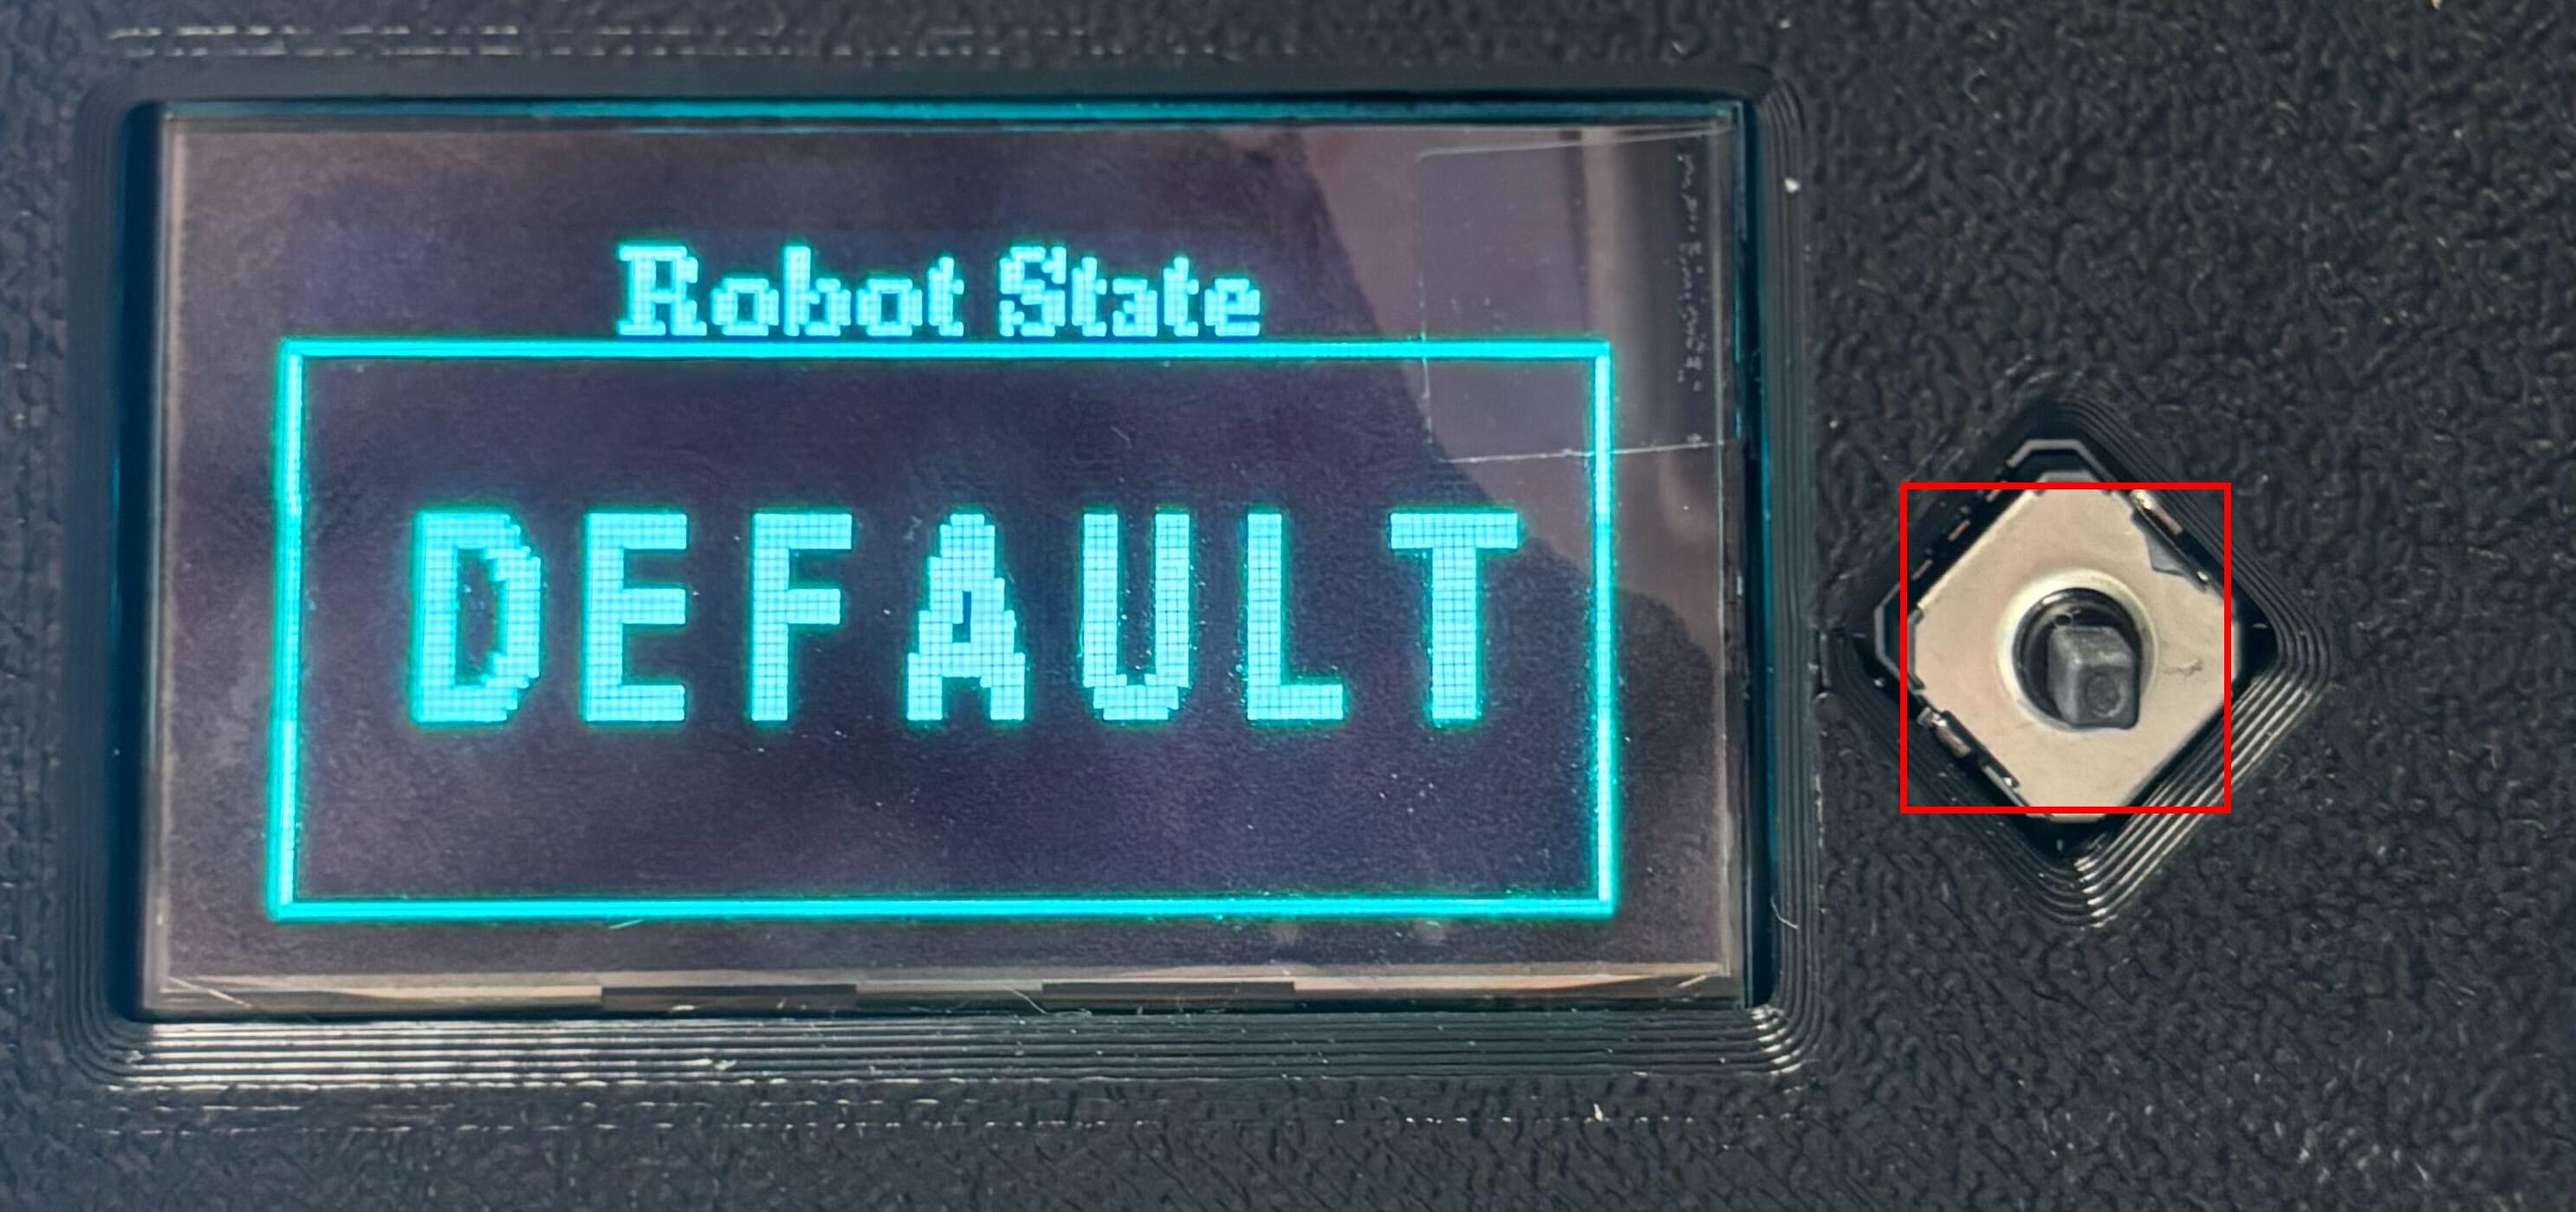
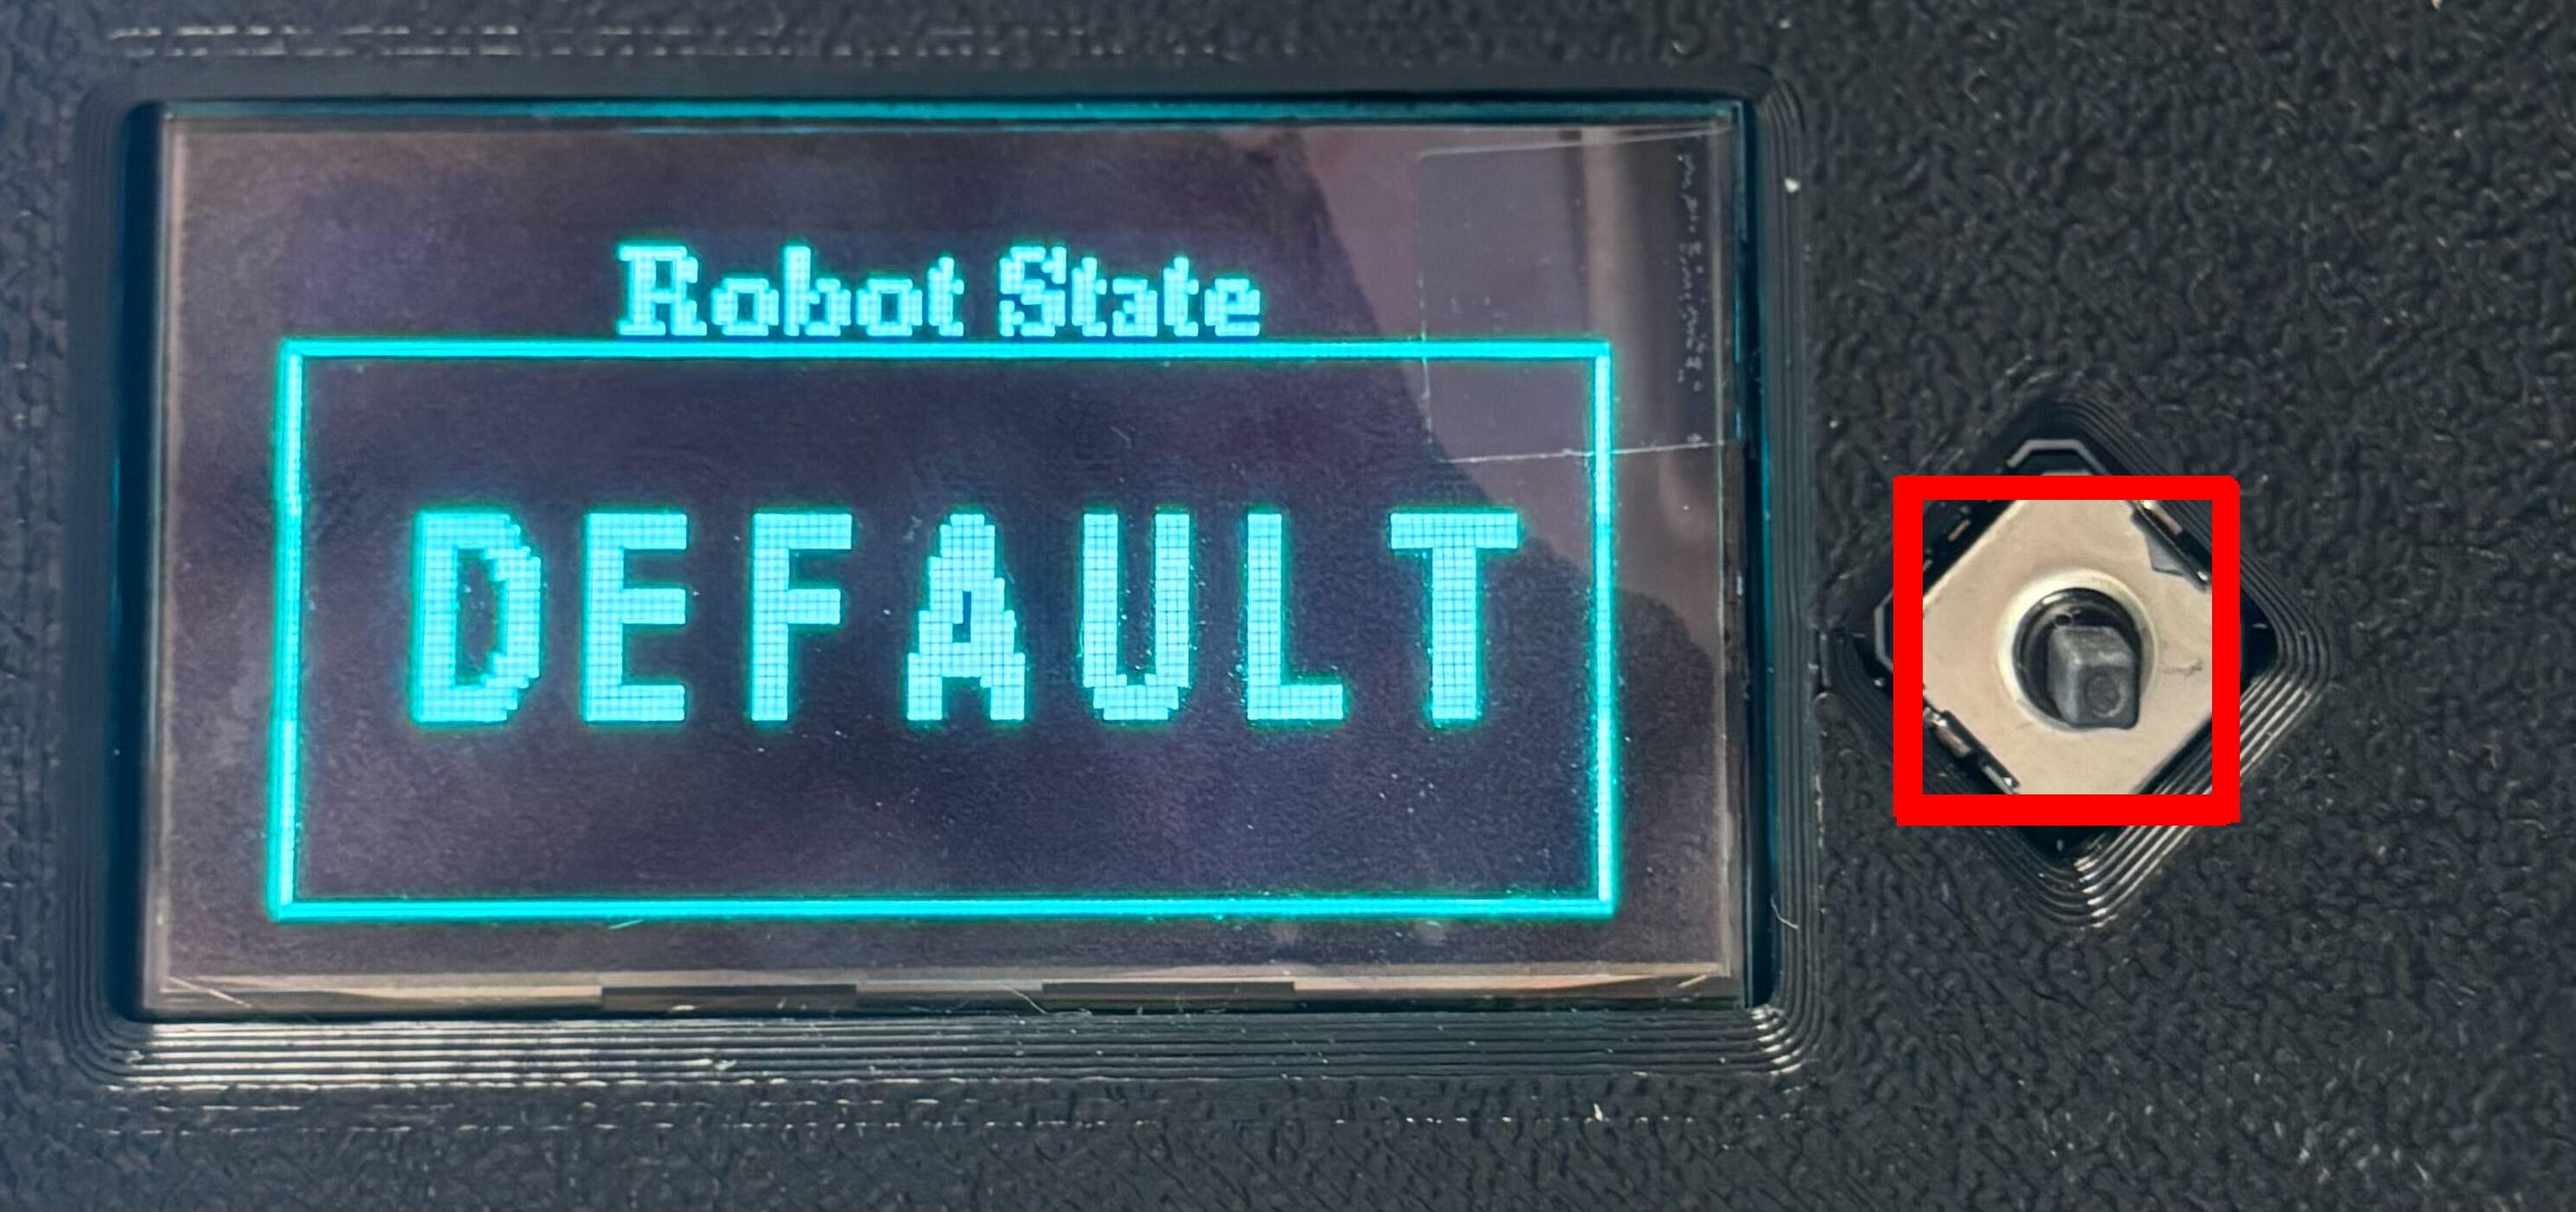
package maintainer지정 및 기타 수정

Changed region(s): [[0.7117, 0.3688, 0.8974, 0.7069]]

diff --git a/wego_minipi_ws/src/web_gui_pkg/src/web_gui_pkg/page_startup.py b/wego_minipi_ws/src/web_gui_pkg/src/web_gui_pkg/page_startup.py
@@ -21,8 +21,6 @@ def startup_page():
     os.makedirs(DEFAULT_DIR, exist_ok=True)
     os.makedirs(ADDITIONAL_DIR, exist_ok=True)
 
-    AUTOSTART_DIR = os.path.join(HOME_DIR, ".config", "autostart")
-    MY_DESKTOP_FILE = os.path.join(AUTOSTART_DIR, "wego_gui_user_startup.desktop")
     WRAPPER_SCRIPT = os.path.join(STARTUP_ROOT, "launcher_wrapper.sh")
 
     checkboxes = {}
@@ -204,7 +202,6 @@ def startup_page():
 
         if is_on:  # ON
             try:
-                os.makedirs(AUTOSTART_DIR, exist_ok=True)
                 with open(WRAPPER_SCRIPT, "w") as f:
                     f.write("#!/bin/bash\n")
                     f.write(f"{ROS_SETUP_COMMAND}\n\n")
@@ -226,30 +223,11 @@ def startup_page():
                 st = os.stat(WRAPPER_SCRIPT)
                 os.chmod(WRAPPER_SCRIPT, st.st_mode | stat.S_IEXEC)
 
-                term_cmd = ""
-                if shutil.which("gnome-terminal"):
-                    term_cmd = f"gnome-terminal --window --title='User Scripts Launcher' -- bash -c '{WRAPPER_SCRIPT}; exec bash'"
-                elif shutil.which("xfce4-terminal"):
-                    term_cmd = f"xfce4-terminal --title='User Scripts Launcher' --hold --command='bash -c {WRAPPER_SCRIPT}'"
-                else:
-                    term_cmd = f"x-terminal-emulator -e 'bash -c \"{WRAPPER_SCRIPT}; read\"'"
-
-                with open(MY_DESKTOP_FILE, "w") as f:
-                    f.write("[Desktop Entry]\n")
-                    f.write("Type=Application\n")
-                    f.write("Name=Wego GUI User Startup\n")
-                    f.write(f"Exec={term_cmd}\n")
-                    f.write("Hidden=false\n")
-                    f.write("NoDisplay=false\n")
-                    f.write("X-GNOME-Autostart-enabled=true\n")
-
                 ui.notify(f"자동 실행 등록됨! (부팅 50초 후 실행)", type="positive")
             except Exception as err:
                 ui.notify(f"설정 실패: {err}", type="negative")
                 e.source.set_value(False)
         else:  # OFF
-            if os.path.exists(MY_DESKTOP_FILE):
-                os.remove(MY_DESKTOP_FILE)
             if os.path.exists(WRAPPER_SCRIPT):
                 os.remove(WRAPPER_SCRIPT)
             ui.notify("사용자 스크립트 자동 실행: 꺼짐", type="warning")
@@ -318,7 +296,7 @@ def startup_page():
                 ui.chip("Always ON", color="gray", icon="lock").props("dense")
 
             with ui.row().classes("w-full items-center justify-between px-4 py-3 bg-indigo-50 rounded mt-2"):
-                is_global_on = os.path.exists(MY_DESKTOP_FILE)
+                is_global_on = os.path.exists(WRAPPER_SCRIPT)
                 with ui.column().classes("gap-0"):
                     ui.label("2. User Scripts (Additional)").classes("font-bold text-indigo-700")
                     ui.label("활성화 시, 부팅 직후 터미널이 열리고 50초 카운트다운 후 실행됩니다.").classes("text-xs text-indigo-500")

diff --git a/wego_minipi_ws/src/ball_tracker_pkg/scripts/cam_setting.py b/wego_minipi_ws/src/ball_tracker_pkg/scripts/cam_setting.py
@@ -54,7 +54,7 @@ PROP = {
     "AUTO_WB": getattr(CAP, "CAP_PROP_AUTO_WB", 45),  # white_balance_temperature_auto
 }
 
-# ⚠ 파싱 결과가 없을 경우를 대비한 폴백(Fallback) 초기값 및 영역
+# 파싱 결과가 없을 경우를 대비한 폴백(Fallback) 초기값 및 영역
 FALLBACK_RANGES = {
     "BRIGHTNESS": (-64, 64),
     "CONTRAST": (0, 64),
@@ -78,8 +78,6 @@ FALLBACK_DEFAULTS = {
 
 RES_LIST = [(640, 480), (800, 600), (1280, 720), (1280, 960), (1920, 1080), (2560, 1440), (3840, 2160)]
 FPS_LIST = [15, 30, 60, 120]
-
-# --- 유틸리티 함수 (중략) ---
 
 
 def bgr_to_qimage(frame):

diff --git a/README.md b/README.md
@@ -1,12 +1,12 @@
 # Mini Pi manual
 
-### 처음 로봇을 개봉할 때
+## 처음 로봇을 개봉할 때
 맨 처음 로봇을 개봉하여 사용하기 까지의 단계는 다음과 같습니다.
 1. 로봇 전원 인가
 2. 로봇 와이파이 연결
 3. 조이패드로 로봇 구동하기
 
-#### 1. 로봇 전원 인가
+### 1. 로봇 전원 인가
 <table>
   <tr>
     <td width="50%" valign="top">
@@ -38,7 +38,7 @@
 </table>
 
 
-#### 2. 로봇 와이파이 연결
+### 2. 로봇 와이파이 연결
 아래 [초기 와이파이 연결](#초기-와이파이-연결)을 참고해주세요.
 현재, **minipi는 와이파이가 연결되어있지 않으면 구동을 할 수 없도록 하였습니다.**
 
@@ -48,7 +48,7 @@
 <br>
 
 
-#### 3. 조이패드로 로봇 구동하기
+### 3. 조이패드로 로봇 구동하기
 로봇이 일어섰다면, 조이패드를 이용해 로봇을 이동시킬 수 있습니다.
 아래 사진을 참고해주세요.
 
@@ -59,7 +59,7 @@
 
 ---
 
-### Ip 확인
+## Ip 확인
 mini pi를 와이파이에 연결한 후, ip를 확인하기 위해 번거롭게 터미널을 열 필요가 없습니다.
 
 mini pi 뒷면의 LCD 화면 옆 스위치를 조종하여 다양한 상태 화면을 확인할 수 있습니다.
@@ -125,7 +125,7 @@ wlan0의 inet을 이용하여 원격접속에 사용할 수 있습니다.
       <p>0002로 끝나는 uuid에 연결하고자하는 와이파이 이름을 입력하고 전송하세요. utf8 형식, commend 형식으로 전송합니다.</p>
     </td>
     <td width="50%" align="center">
-      <img src="./image/nRF_scanner_wifiname.PNG" alt="UUID 확인" width="300">
+      <img src="./image/nRF_scanner_wifiname.PNG" alt="ssid 입력" width="300">
     </td>
   </tr>
     </tr>
@@ -135,7 +135,7 @@ wlan0의 inet을 이용하여 원격접속에 사용할 수 있습니다.
       <p>0003으로 끝나는 uuid에 연결하고자하는 와이파이 비밀번호를 입력하고 전송하세요. utf8 형식, commend 형식으로 전송합니다.</p>
     </td>
     <td width="50%" align="center">
-      <img src="./image/nRF_scanner_wifipw.PNG" alt="UUID 확인" width="300">
+      <img src="./image/nRF_scanner_wifipw.PNG" alt="ssid pw 입력" width="300">
     </td>
   </tr>
 </table>
@@ -151,17 +151,17 @@ wlan0의 inet을 이용하여 원격접속에 사용할 수 있습니다.
 `http://minipi의_ip주소:8089`를 통해 gui에 접속하세요. 아래와 같은 화면이 나타납니다.
 
 `워크스페이스 추가` 버튼을 통해 직접 만든 워크스페이스를 추가할 수 있으며, `워크스페이스 관리` 버튼을 통해 워크스페이스 내 패키지를 숨길 수 있습니다.
-<img src="./image/minipi_launcher.png" alt="ip 화면" width="90%" style="display: block; margin: 0 auto;">
+<img src="./image/minipi_launcher.png" alt="launcher 메인화면" width="90%" style="display: block; margin: 0 auto;">
 <br>
 
 네트워크를 변경하고 싶다면, `와이파이 재조정` 페이지로 이동하여 설정해줍니다.
-<img src="./image/minipi_launcher_wifi.png" alt="ip 화면" width="90%" style="display: block; margin: 0 auto;">
+<img src="./image/minipi_launcher_wifi.png" alt="와이파이 재조정 화면" width="90%" style="display: block; margin: 0 auto;">
 <br>
 
 로봇을 부팅할 때 자동으로 구동시키고 싶은 launch가 있다면, `부팅 설정` 페이지로 이동합니다. `사용자 스크립트 목록`에서 부팅 시 실행할 스크립트를 활성/비활성화할 수 있습니다.
-<img src="./image/minipi_launcher_startup.png" alt="ip 화면" width="90%" style="display: block; margin: 0 auto;">
+<img src="./image/minipi_launcher_startup.png" alt="부팅 설정 - 사용자 스크립트 설정 화면" width="90%" style="display: block; margin: 0 auto;">
 <br>
 
 새 스크립트를 만들어 실행할 수도 있습니다.
-<img src="./image/minipi_launcher_startup2.png" alt="ip 화면" width="90%" style="display: block; margin: 0 auto;">
+<img src="./image/minipi_launcher_startup2.png" alt="사용자 스크립트 제작 화면" width="90%" style="display: block; margin: 0 auto;">
 <br>
